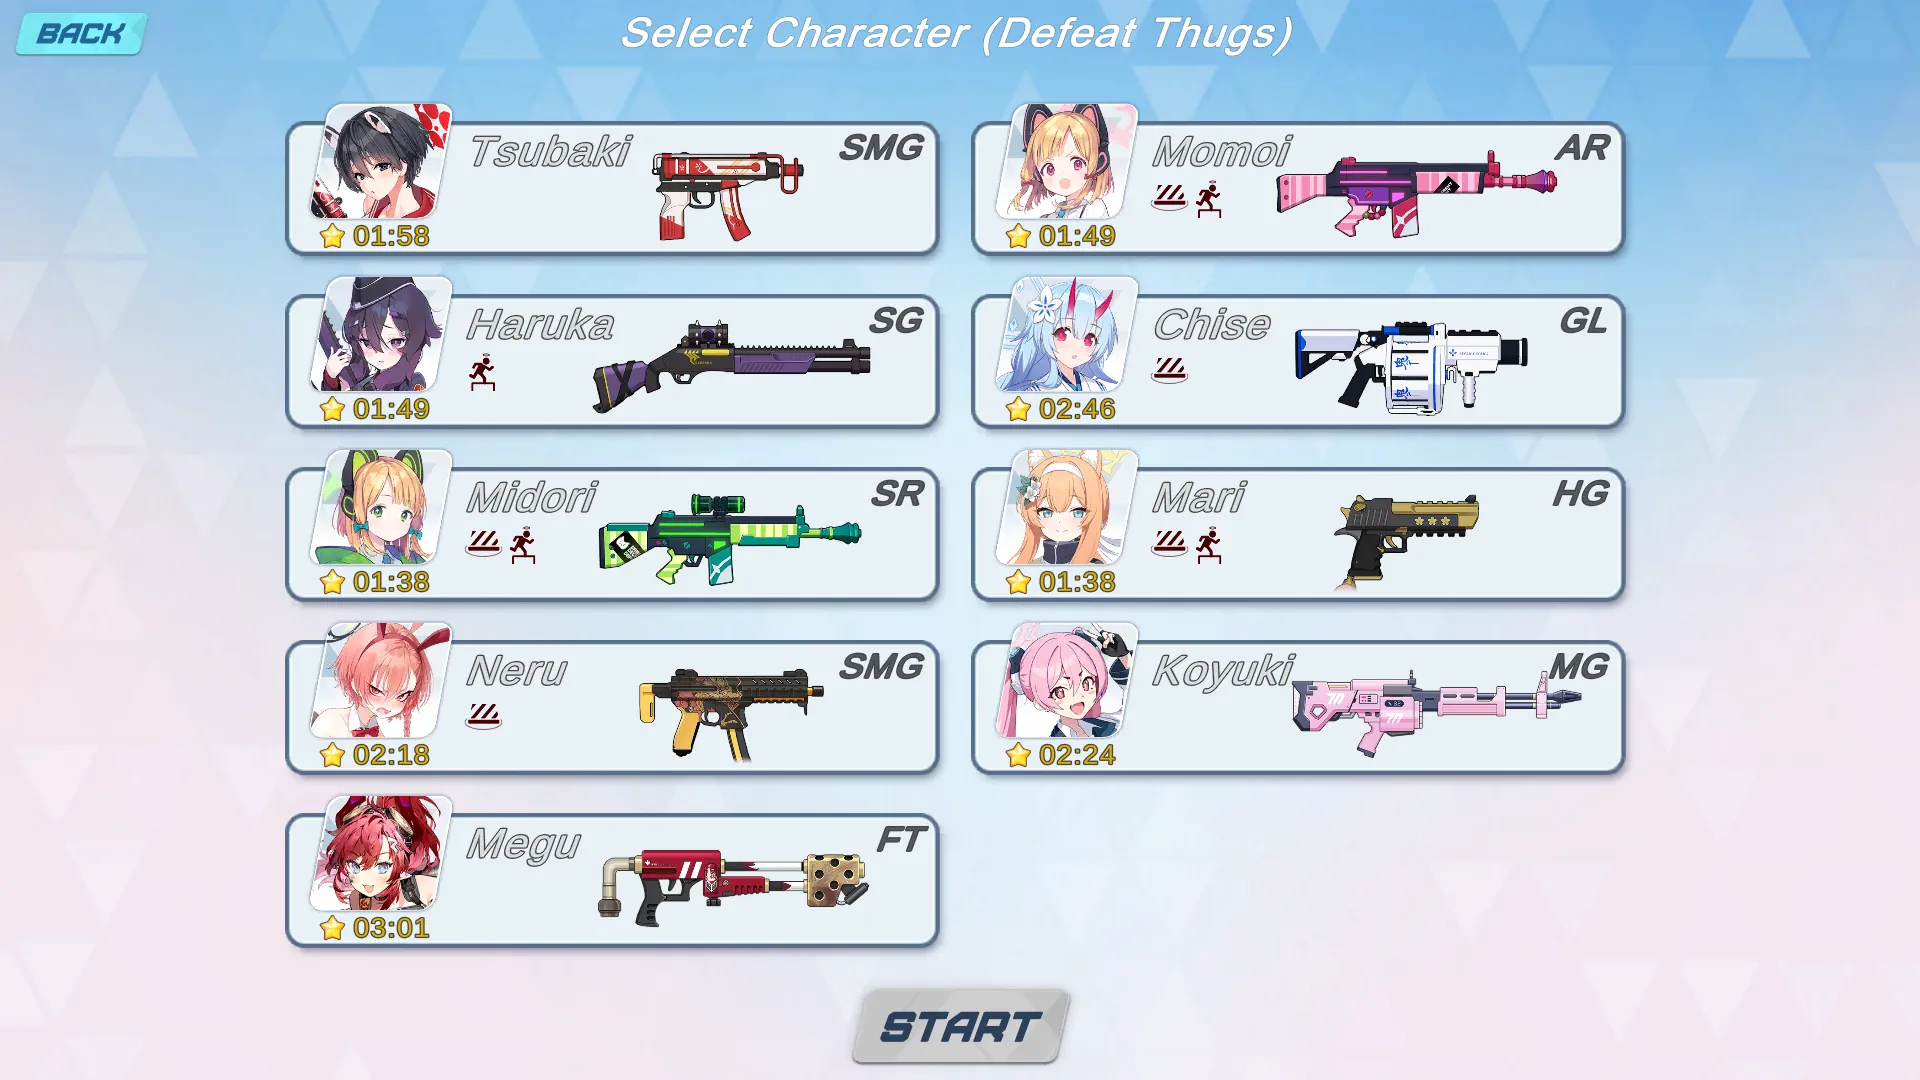
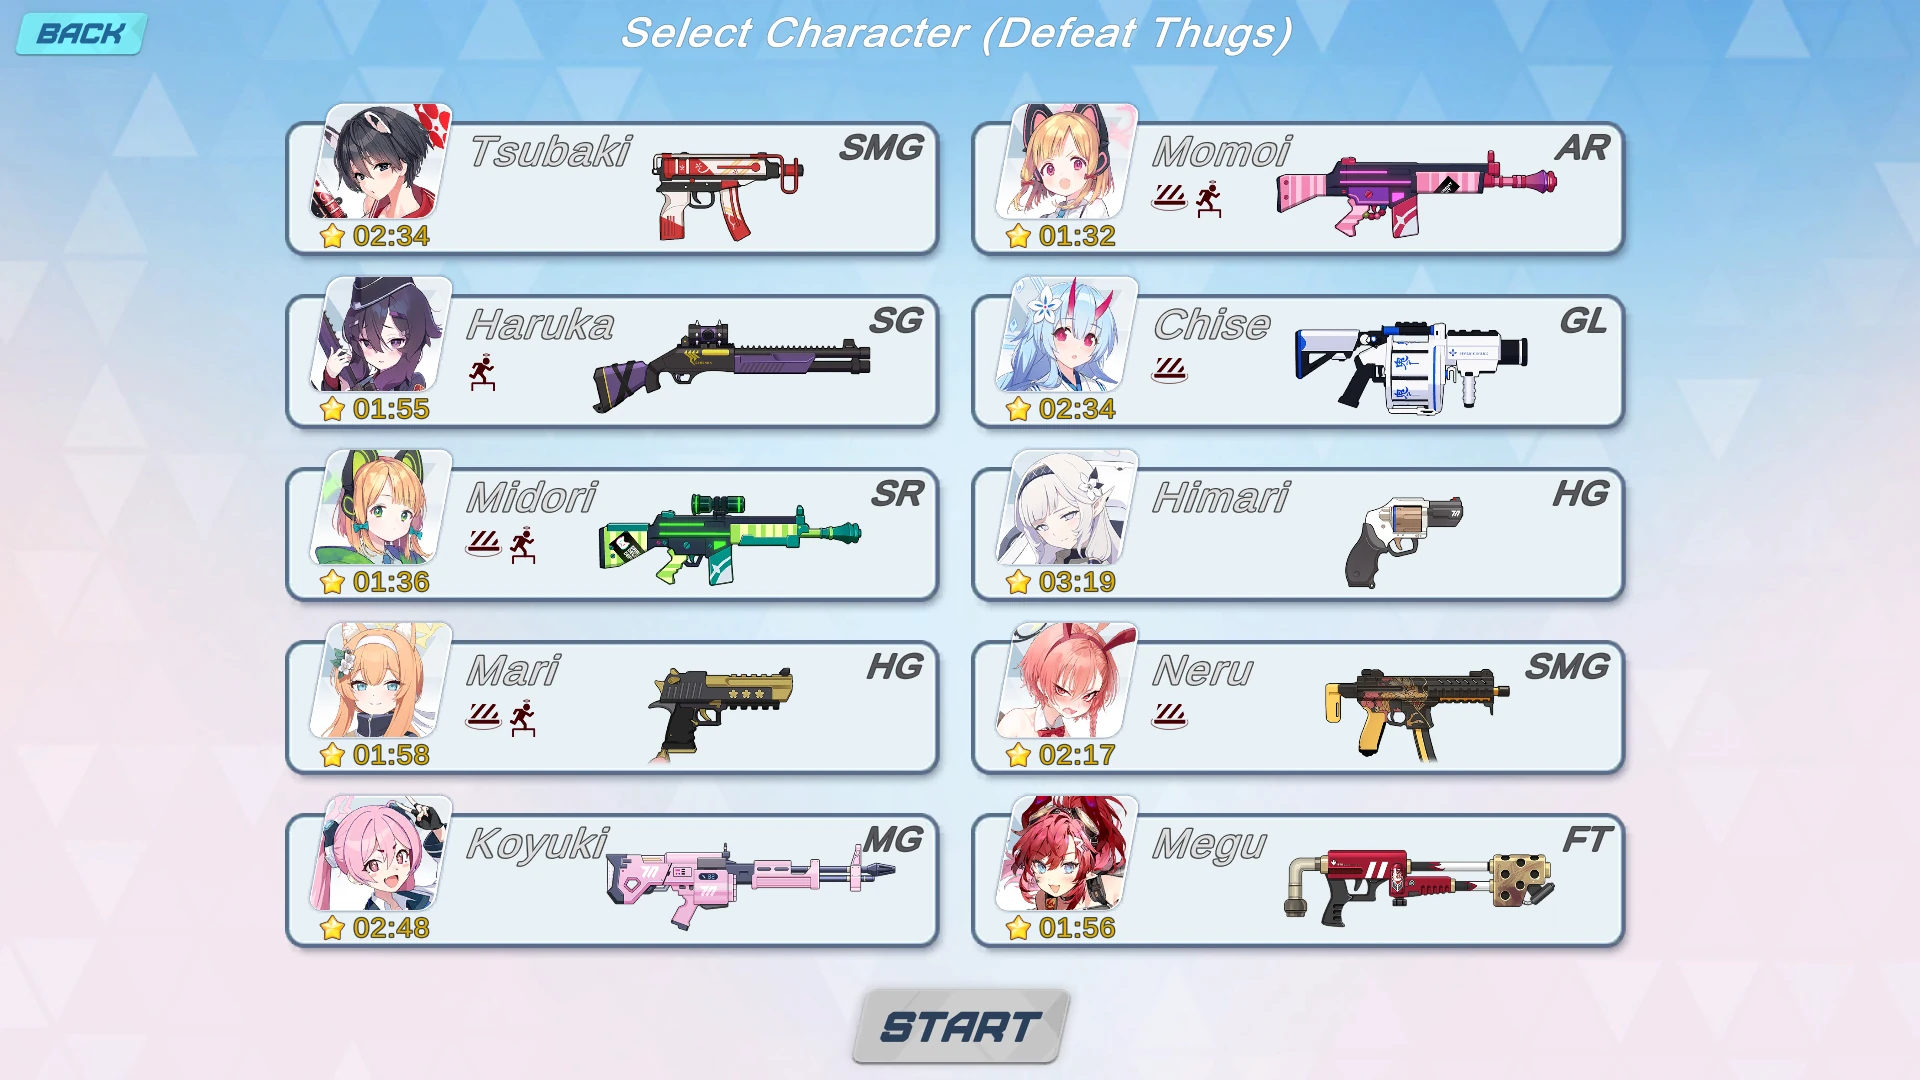
Add himari Group AI System Loading Hints

diff --git a/docs/faq.html b/docs/faq.html
@@ -1,5 +1,5 @@
 <!DOCTYPE html>
-<html>
+<html itemscope itemtype="https://schema.org/FAQPage">
 
 <head>
     <title>Blue Archive Fanmade Shooter - FAQ</title>
@@ -138,7 +138,7 @@ body {
                         <a class="nav-link" href="/Blue-Archive-Fanmade-Shooter/#transfer_saves">How to transfer saves</a>
                     </li>
                 </ul>
-                <div class="d-flex nav-social">
+                <div class="d-flex" style="padding:0.5rem 0px;">
 <a href="https://github.com/moozaart/Blue-Archive-Fanmade-Shooter" class="me-lg-4 me-md-5 me-5" title="GitHub" target="_blank"><svg aria-hidden="true" viewBox="0 0 16 16" version="1.1" style="pointer-events: none; display: inherit; width: 20px; height: 20px;" data-view-component="true" class="octicon octicon-mark-github v-align-middle color-fg-default">
     <path d="M8 0c4.42 0 8 3.58 8 8a8.013 8.013 0 0 1-5.45 7.59c-.4.08-.55-.17-.55-.38 0-.27.01-1.13.01-2.2 0-.75-.25-1.23-.54-1.48 1.78-.2 3.65-.88 3.65-3.95 0-.88-.31-1.59-.82-2.15.08-.2.36-1.02-.08-2.12 0 0-.67-.22-2.2.82-.64-.18-1.32-.27-2-.27-.68 0-1.36.09-2 .27-1.53-1.03-2.2-.82-2.2-.82-.44 1.1-.16 1.92-.08 2.12-.51.56-.82 1.28-.82 2.15 0 3.06 1.86 3.75 3.64 3.95-.23.2-.44.55-.51 1.07-.46.21-1.61.55-2.33-.66-.15-.24-.6-.83-1.23-.82-.67.01-.27.38.01.53.34.19.73.9.82 1.13.16.45.68 1.31 2.69.94 0 .67.01 1.3.01 1.49 0 .21-.15.45-.55.38A7.995 7.995 0 0 1 0 8c0-4.42 3.58-8 8-8Z"></path>
 </svg></a>
@@ -162,10 +162,9 @@ body {
     <!--HEADER END-->
     <div class="container">
         <div class="row">
-          	<div itemscope itemtype="https://schema.org/FAQPage">
-<h2 class="text-center g-3">Questions and answers</h2>
+          	<h2 class="text-center g-3">Questions and answers</h2>
 
-<div class="col col-12" id="why" itemscope itemprop="mainEntity" itemtype="https://schema.org/Question">
+<div class="col col-12" id="why" name="why" itemscope itemprop="mainEntity" itemtype="https://schema.org/Question">
   <div class="card mt-3" style="max-width: 700px;margin-left:auto;margin-right:auto;">
     <div class="card-header" itemprop="name">
       Why am I even making this fangame.
@@ -179,7 +178,7 @@ I follow the principle "Anything can be made from anything", that from the resou
   </div>
 </div>
 
-<div class="col col-12" id="plans" itemscope itemprop="mainEntity" itemtype="https://schema.org/Question">
+<div class="col col-12" id="plans" name="plans" itemscope itemprop="mainEntity" itemtype="https://schema.org/Question">
   <div class="card mt-3" style="max-width: 700px;margin-left:auto;margin-right:auto;">
     <div class="card-header" itemprop="name">
       Plans for game development.
@@ -197,7 +196,20 @@ I follow the principle "Anything can be made from anything", that from the resou
   </div>
 </div>
 
-<div class="col col-12" id="how_to_shoot" itemscope itemprop="mainEntity" itemtype="https://schema.org/Question">
+<div class="col col-12" id="install" name="install" itemscope itemprop="mainEntity" itemtype="https://schema.org/Question">
+  <div class="card mt-3" style="max-width: 700px;margin-left:auto;margin-right:auto;">
+    <div class="card-header" itemprop="name">
+      How to install the game?
+    </div>
+    <div class="card-body" itemscope itemprop="acceptedAnswer" itemtype="https://schema.org/Answer">
+      <div itemprop="text">
+    You don't need to install the game, just unzip the zip archive.
+      </div>
+    </div>
+  </div>
+</div>
+
+<div class="col col-12" id="how_to_shoot" name="how_to_shoot" itemscope itemprop="mainEntity" itemtype="https://schema.org/Question">
   <div class="card mt-3" style="max-width: 700px;margin-left:auto;margin-right:auto;">
     <div class="card-header" itemprop="name">
       How to shoot?
@@ -210,7 +222,7 @@ I follow the principle "Anything can be made from anything", that from the resou
   </div>
 </div>
 
-<div class="col col-12" id="icons" itemscope itemprop="mainEntity" itemtype="https://schema.org/Question">
+<div class="col col-12" id="icons" name="icons" itemscope itemprop="mainEntity" itemtype="https://schema.org/Question">
   <div class="card mt-3" style="max-width: 700px;margin-left:auto;margin-right:auto;">
     <div class="card-header" itemprop="name">
       What this icon <img src="/Blue-Archive-Fanmade-Shooter/res/images/icons/use_cover.jpg" /> mean?
@@ -223,7 +235,7 @@ I follow the principle "Anything can be made from anything", that from the resou
   </div>
 </div>
 
-<div class="col col-12" id="icons" itemscope itemprop="mainEntity" itemtype="https://schema.org/Question">
+<div class="col col-12" id="icons" name="icons" itemscope itemprop="mainEntity" itemtype="https://schema.org/Question">
   <div class="card mt-3" style="max-width: 700px;margin-left:auto;margin-right:auto;">
     <div class="card-header" itemprop="name">
       What this icon <img src="/Blue-Archive-Fanmade-Shooter/res/images/icons/use_jump.jpg" /> mean?
@@ -236,7 +248,7 @@ I follow the principle "Anything can be made from anything", that from the resou
   </div>
 </div>
 
-<div class="col col-12" id="add_student" itemscope itemprop="mainEntity" itemtype="https://schema.org/Question">
+<div class="col col-12" id="add_student" name="add_student" itemscope itemprop="mainEntity" itemtype="https://schema.org/Question">
   <div class="card mt-3" style="max-width: 700px;margin-left:auto;margin-right:auto;">
     <div class="card-header" itemprop="name">
       Adding new students.
@@ -255,7 +267,7 @@ I follow the principle "Anything can be made from anything", that from the resou
   </div>
 </div>
 
-<div class="col col-12" id="shooting_and_reload_on_move" itemscope itemprop="mainEntity" itemtype="https://schema.org/Question">
+<div class="col col-12" id="shooting_and_reload_on_move" name="shooting_and_reload_on_move" itemscope itemprop="mainEntity" itemtype="https://schema.org/Question">
   <div class="card mt-3" style="max-width: 700px;margin-left:auto;margin-right:auto;">
     <div class="card-header" itemprop="name">
       Shooting and reloading on the move.
@@ -271,7 +283,7 @@ Balancing and improving the gaming experience will be done through other methods
   </div>
 </div>
 
-<div class="col col-12" id="skills" itemscope itemprop="mainEntity" itemtype="https://schema.org/Question">
+<div class="col col-12" id="skills" name="skills" itemscope itemprop="mainEntity" itemtype="https://schema.org/Question">
   <div class="card mt-3" style="max-width: 700px;margin-left:auto;margin-right:auto;">
     <div class="card-header" itemprop="name">
       About adding skills and EX skills.
@@ -288,14 +300,14 @@ Even if they are added to the game, it is likely that they will differ from the 
   </div>
 </div>
 
-<div class="col col-12" id="android" itemscope itemprop="mainEntity" itemtype="https://schema.org/Question">
+<div class="col col-12" id="android" name="android" itemscope itemprop="mainEntity" itemtype="https://schema.org/Question">
   <div class="card mt-3" style="max-width: 700px;margin-left:auto;margin-right:auto;">
     <div class="card-header" itemprop="name">
       Can I play on Android?
     </div>
     <div class="card-body" itemscope itemprop="acceptedAnswer" itemtype="https://schema.org/Answer">
       <div itemprop="text">
-    <b>No, PC only.</b> The main reason is the problem of adapting the controls to the touchscreen. I don't see a way to make the game playable on a phone without fundamentally changing the basic principles of the game.
+    <b>No, PC only. Android is not planned.</b> The main reason is the problem of adapting the controls to the touchscreen. I don't see a way to make the game playable on a phone without fundamentally changing the basic principles of the game.
 <br><br>
 If you think you know how to do it, you are just imagining it.
       </div>
@@ -303,7 +315,7 @@ If you think you know how to do it, you are just imagining it.
   </div>
 </div>
 
-<div class="col col-12" id="difficulty" itemscope itemprop="mainEntity" itemtype="https://schema.org/Question">
+<div class="col col-12" id="difficulty" name="difficulty" itemscope itemprop="mainEntity" itemtype="https://schema.org/Question">
   <div class="card mt-3" style="max-width: 700px;margin-left:auto;margin-right:auto;">
     <div class="card-header" itemprop="name">
       The game is difficult.
@@ -318,7 +330,6 @@ Perhaps in the future it will even have to be made more difficult, at least Haru
   </div>
 </div>
 
-</div>
         </div>
         <!--FOOTER START-->
         <footer class="pt-4 my-md-5 border-top">

diff --git a/docs/updates.html b/docs/updates.html
@@ -138,7 +138,7 @@ body {
                         <a class="nav-link" href="/Blue-Archive-Fanmade-Shooter/#transfer_saves">How to transfer saves</a>
                     </li>
                 </ul>
-                <div class="d-flex nav-social">
+                <div class="d-flex" style="padding:0.5rem 0px;">
 <a href="https://github.com/moozaart/Blue-Archive-Fanmade-Shooter" class="me-lg-4 me-md-5 me-5" title="GitHub" target="_blank"><svg aria-hidden="true" viewBox="0 0 16 16" version="1.1" style="pointer-events: none; display: inherit; width: 20px; height: 20px;" data-view-component="true" class="octicon octicon-mark-github v-align-middle color-fg-default">
     <path d="M8 0c4.42 0 8 3.58 8 8a8.013 8.013 0 0 1-5.45 7.59c-.4.08-.55-.17-.55-.38 0-.27.01-1.13.01-2.2 0-.75-.25-1.23-.54-1.48 1.78-.2 3.65-.88 3.65-3.95 0-.88-.31-1.59-.82-2.15.08-.2.36-1.02-.08-2.12 0 0-.67-.22-2.2.82-.64-.18-1.32-.27-2-.27-.68 0-1.36.09-2 .27-1.53-1.03-2.2-.82-2.2-.82-.44 1.1-.16 1.92-.08 2.12-.51.56-.82 1.28-.82 2.15 0 3.06 1.86 3.75 3.64 3.95-.23.2-.44.55-.51 1.07-.46.21-1.61.55-2.33-.66-.15-.24-.6-.83-1.23-.82-.67.01-.27.38.01.53.34.19.73.9.82 1.13.16.45.68 1.31 2.69.94 0 .67.01 1.3.01 1.49 0 .21-.15.45-.55.38A7.995 7.995 0 0 1 0 8c0-4.42 3.58-8 8-8Z"></path>
 </svg></a>
@@ -163,6 +163,30 @@ body {
     <div class="container">
         <div class="row">
           	<h2 class="text-center g-3">Updates</h2>
+
+<div class="col col-12">
+  <div class="card mt-3" style="max-width: 600px;margin-left:auto;margin-right:auto;">
+    <div class="card-header">
+      16.12.2024
+    </div>
+    <div class="card-body">
+    <ul>
+  <li>Added Himari (HG)</li>
+  <li>Added a new turret type to "Path to Chesed"</li>
+  <li>Group AI System</li>
+  <li>Loading screen hints</li>
+  <li>Fixed revive shield internal error</li>
+  <li>Add Momoi jump voice</li>
+  <li>Version display in main menu</li>
+  <li>Added controls display window</li>
+  <li>Optimized some FX materials</li>
+  <li>Optimized Object Pool</li>
+  <li>Fixed Chise's rocket trail visual bug</li>
+  <li>Changed extension of the downloaded archive to zip</li>
+</ul>
+    </div>
+  </div>
+</div>
 
 <div class="col col-12">
   <div class="card mt-3" style="max-width: 600px;margin-left:auto;margin-right:auto;">

diff --git a/docs/index.html b/docs/index.html
@@ -138,7 +138,7 @@ body {
                         <a class="nav-link" href="/Blue-Archive-Fanmade-Shooter/#transfer_saves">How to transfer saves</a>
                     </li>
                 </ul>
-                <div class="d-flex nav-social">
+                <div class="d-flex" style="padding:0.5rem 0px;">
 <a href="https://github.com/moozaart/Blue-Archive-Fanmade-Shooter" class="me-lg-4 me-md-5 me-5" title="GitHub" target="_blank"><svg aria-hidden="true" viewBox="0 0 16 16" version="1.1" style="pointer-events: none; display: inherit; width: 20px; height: 20px;" data-view-component="true" class="octicon octicon-mark-github v-align-middle color-fg-default">
     <path d="M8 0c4.42 0 8 3.58 8 8a8.013 8.013 0 0 1-5.45 7.59c-.4.08-.55-.17-.55-.38 0-.27.01-1.13.01-2.2 0-.75-.25-1.23-.54-1.48 1.78-.2 3.65-.88 3.65-3.95 0-.88-.31-1.59-.82-2.15.08-.2.36-1.02-.08-2.12 0 0-.67-.22-2.2.82-.64-.18-1.32-.27-2-.27-.68 0-1.36.09-2 .27-1.53-1.03-2.2-.82-2.2-.82-.44 1.1-.16 1.92-.08 2.12-.51.56-.82 1.28-.82 2.15 0 3.06 1.86 3.75 3.64 3.95-.23.2-.44.55-.51 1.07-.46.21-1.61.55-2.33-.66-.15-.24-.6-.83-1.23-.82-.67.01-.27.38.01.53.34.19.73.9.82 1.13.16.45.68 1.31 2.69.94 0 .67.01 1.3.01 1.49 0 .21-.15.45-.55.38A7.995 7.995 0 0 1 0 8c0-4.42 3.58-8 8-8Z"></path>
 </svg></a>
@@ -211,7 +211,7 @@ body {
 <div class="col-md-12 text-center">
  <a href="https://youtu.be/s_Zi8_lWg-s"
 	class="btn ms-2 me-2 ba-button blue" target="_blank">Gameplay Video</a>
- <a href="https://www.dropbox.com/scl/fi/sj8o5r58kpktnpt52lksa/Blue-Archive-Fanmade-Shooter.rar?rlkey=o1d3qtpo9etfgdtuyuj61gf6u&dl=1"
+ <a href="https://www.dropbox.com/scl/fi/d2xij0ovjsepvmuwppj6n/Blue-Archive-Fanmade-Shooter.zip?rlkey=isky2be6rmvjqfsclxlopzi9g&st=axxjge0n&dl=1"
 	class="btn ms-2 me-2 ba-button yellow" target="_blank">Download From Dropbox</a>
 </div>
 <div class="gy-3 col-md-12 text-center" itemscope itemtype="https://schema.org/FAQPage">

diff --git a/docs/features.html b/docs/features.html
@@ -138,7 +138,7 @@ body {
                         <a class="nav-link" href="/Blue-Archive-Fanmade-Shooter/#transfer_saves">How to transfer saves</a>
                     </li>
                 </ul>
-                <div class="d-flex nav-social">
+                <div class="d-flex" style="padding:0.5rem 0px;">
 <a href="https://github.com/moozaart/Blue-Archive-Fanmade-Shooter" class="me-lg-4 me-md-5 me-5" title="GitHub" target="_blank"><svg aria-hidden="true" viewBox="0 0 16 16" version="1.1" style="pointer-events: none; display: inherit; width: 20px; height: 20px;" data-view-component="true" class="octicon octicon-mark-github v-align-middle color-fg-default">
     <path d="M8 0c4.42 0 8 3.58 8 8a8.013 8.013 0 0 1-5.45 7.59c-.4.08-.55-.17-.55-.38 0-.27.01-1.13.01-2.2 0-.75-.25-1.23-.54-1.48 1.78-.2 3.65-.88 3.65-3.95 0-.88-.31-1.59-.82-2.15.08-.2.36-1.02-.08-2.12 0 0-.67-.22-2.2.82-.64-.18-1.32-.27-2-.27-.68 0-1.36.09-2 .27-1.53-1.03-2.2-.82-2.2-.82-.44 1.1-.16 1.92-.08 2.12-.51.56-.82 1.28-.82 2.15 0 3.06 1.86 3.75 3.64 3.95-.23.2-.44.55-.51 1.07-.46.21-1.61.55-2.33-.66-.15-.24-.6-.83-1.23-.82-.67.01-.27.38.01.53.34.19.73.9.82 1.13.16.45.68 1.31 2.69.94 0 .67.01 1.3.01 1.49 0 .21-.15.45-.55.38A7.995 7.995 0 0 1 0 8c0-4.42 3.58-8 8-8Z"></path>
 </svg></a>
